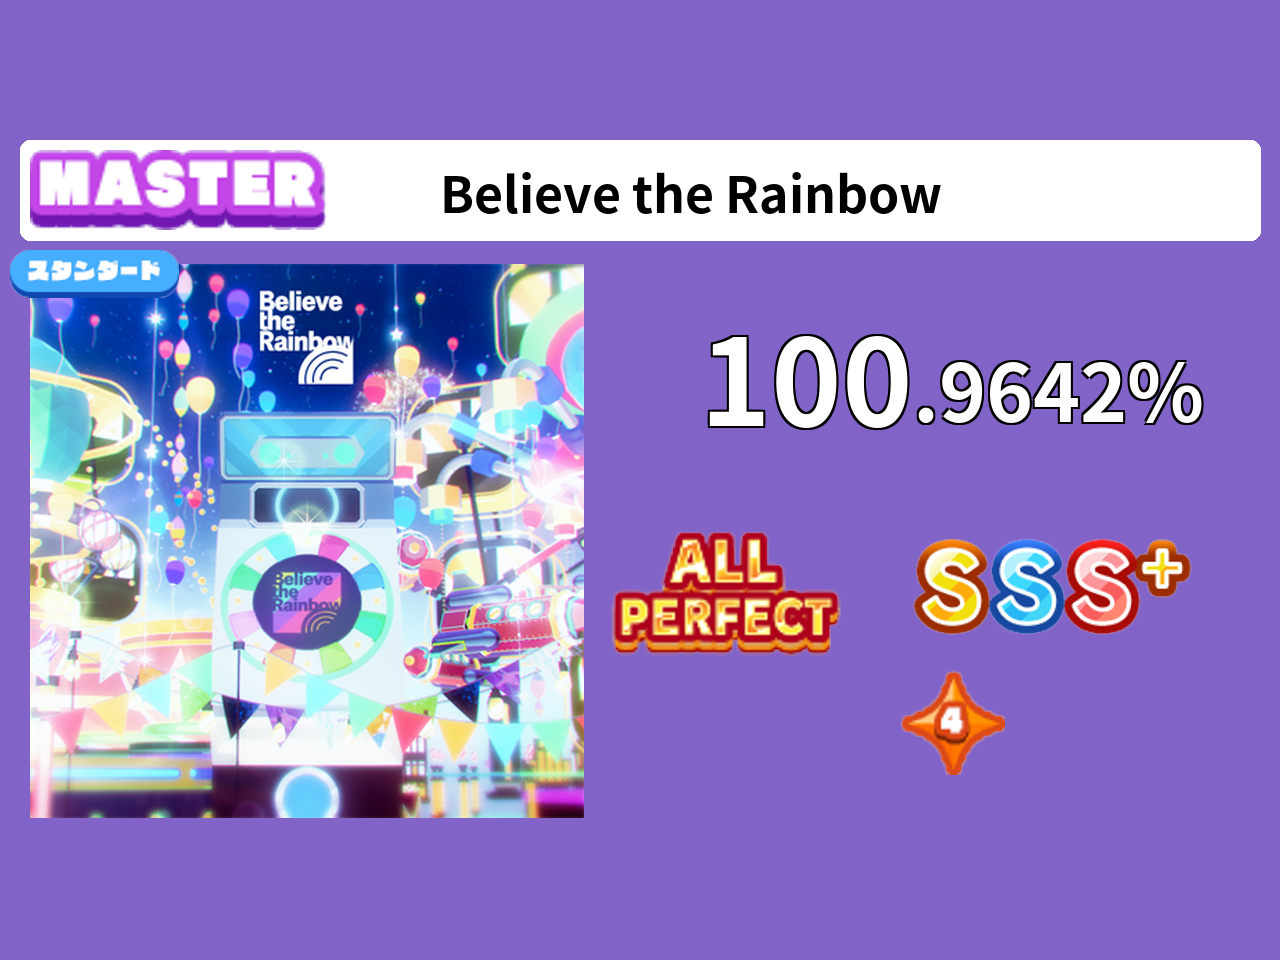
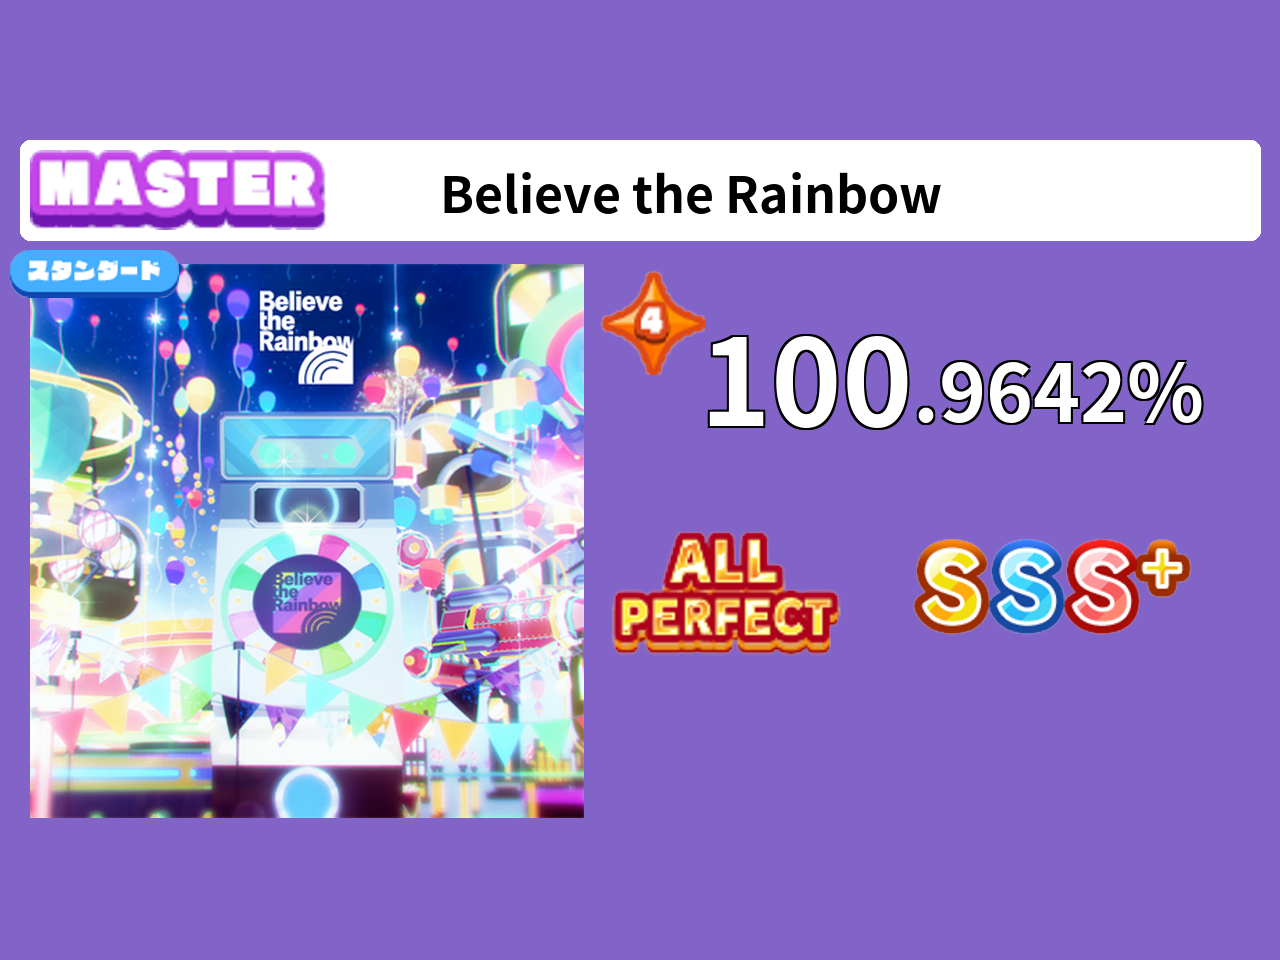
adjust dx star position

Changed region(s): [[0.6875, 0.6875, 0.7812, 0.8125], [0.4688, 0.2812, 0.5625, 0.4062]]

diff --git a/MaimaiScorePicGenerator.py b/MaimaiScorePicGenerator.py
@@ -66,7 +66,7 @@ canvas.paste(resized_type, (900, 400),resized_type)
 dx_rank: Literal[1,2,3,4,5] = 4
 dx_star = Image.open(base_dir + f"assets\\music_icon_dxstar_{dx_rank}.png").convert("RGBA")
 resized_dx_star = dx_star.resize((105, 105))
-canvas.paste(resized_dx_star, (900, 550), resized_dx_star)
+canvas.paste(resized_dx_star, (600, 150), resized_dx_star)
 
 # 画分数
 score = "100"
